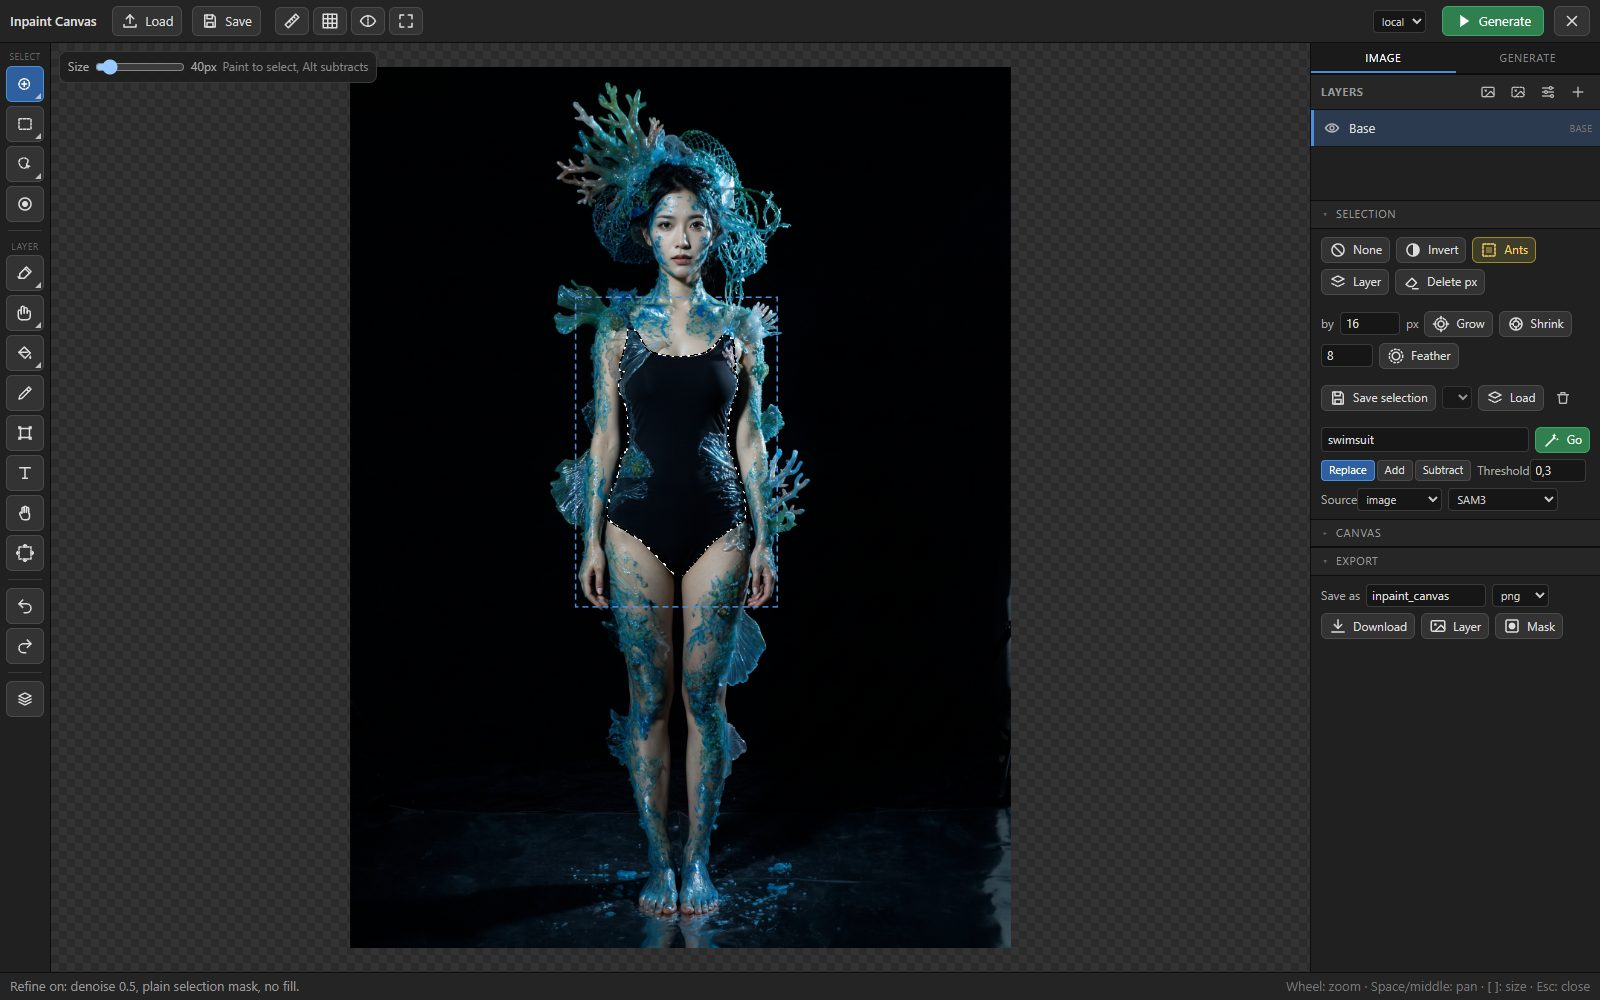
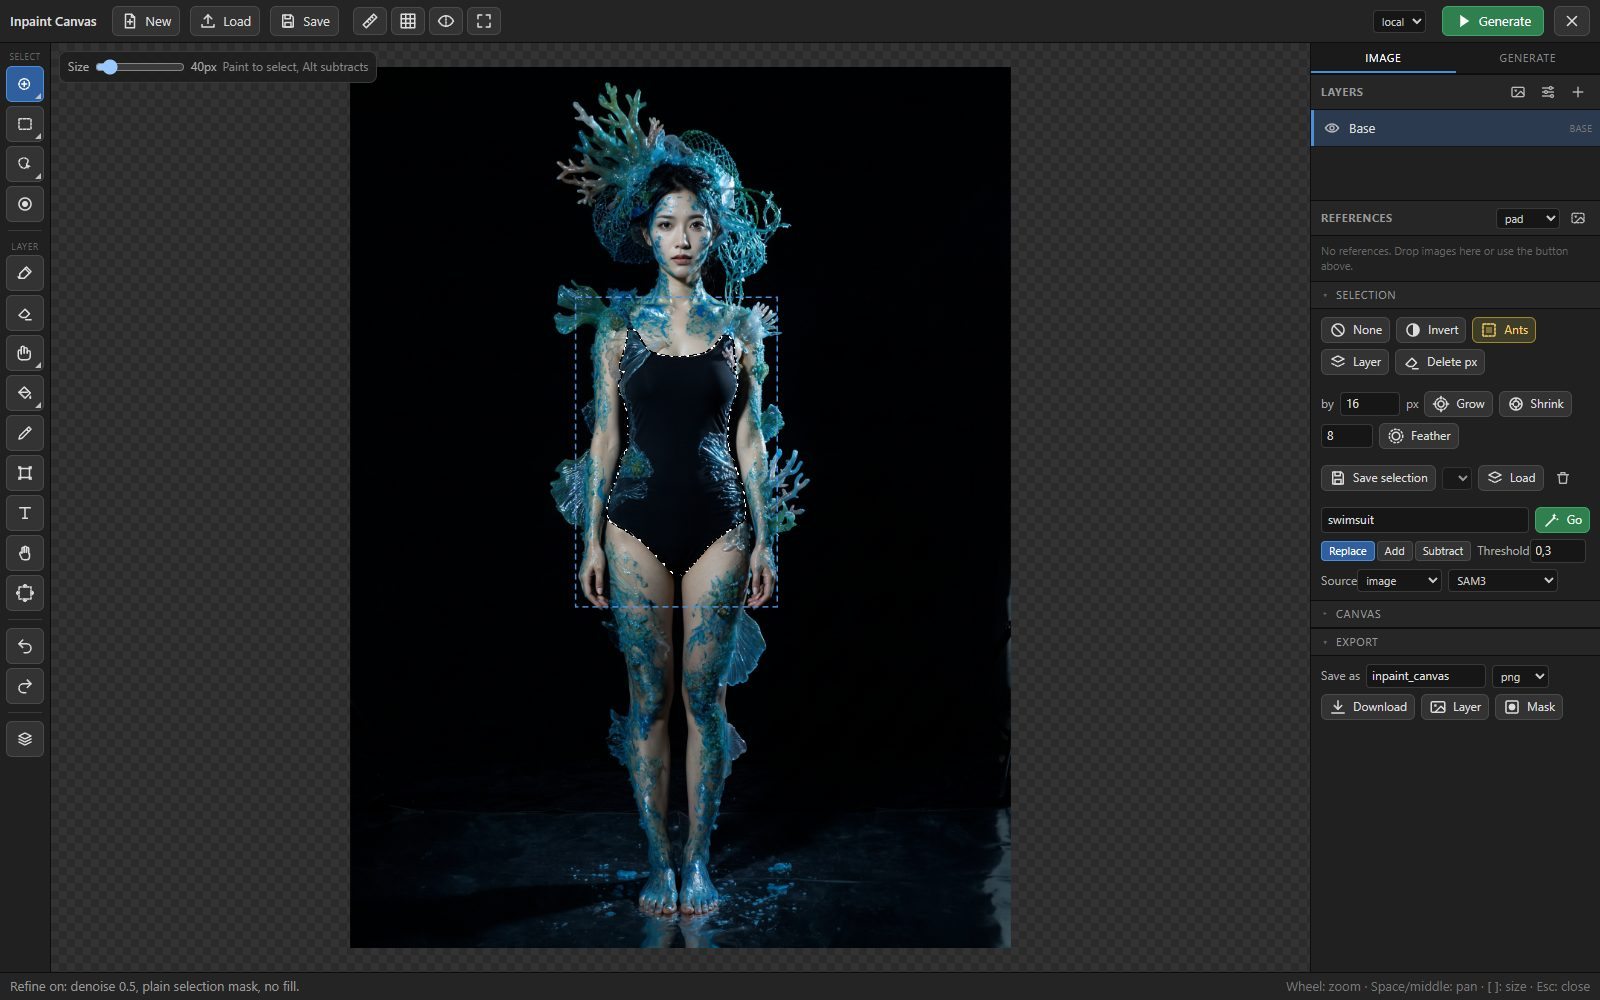
README screenshots regenerated with the current UI; the two example workflows pictured (focus mode, notes stacked); old graph screenshot removed

diff --git a/docs/shots.py b/docs/shots.py
@@ -100,6 +100,38 @@ return { ok, hist: ed.history.length, status: ed.status };
 ]
 
 
+EXAMPLES = {"example-api": "inpaint_canvas_flux2_api.json", "example-klein": "inpaint_canvas_flux2_klein_local.json"}
+
+# the example workflows loaded as graphs, fitted to the window (after the editor scenes: they replace the graph)
+EXAMPLE_SCENE = r"""
+const app = window.comfyAPI.app.app;
+if (window.__ed && window.__ed.isOpen) window.__ed.close();
+await app.loadGraphData(JSON.parse(__EXAMPLE__));
+await window.__wait(2500);
+// a clean canvas: focus mode hides the side panels, toasts go, the guide notes shrink for the picture
+try { const em = app.extensionManager; if (em && !em.focusMode && em.toggleFocusMode) em.toggleFocusMode(); } catch (e) {}
+document.querySelectorAll('.p-toast').forEach((e) => { e.style.display = 'none'; });
+const nodes = app.graph._nodes;
+const isNote = (n) => n.type === 'Note' || n.type === 'MarkdownNote';
+let gx0 = Infinity, gy0 = Infinity;
+for (const n of nodes) { if (isNote(n)) continue; gx0 = Math.min(gx0, n.pos[0]); gy0 = Math.min(gy0, n.pos[1]); }
+// the notes stack in a column left of the graph so the picture stays compact
+let k = 0;
+for (const n of nodes) { if (!isNote(n)) continue; n.size = [340, 150]; if (n.flags) n.flags.collapsed = false; n.pos = [gx0 - 400, gy0 + k * 200]; k++; }
+await window.__wait(600);
+let x0 = Infinity, y0 = Infinity, x1 = -Infinity, y1 = -Infinity;
+for (const n of nodes) { const [x, y] = n.pos, [w, h] = n.size; x0 = Math.min(x0, x); y0 = Math.min(y0, y - 40); x1 = Math.max(x1, x + w); y1 = Math.max(y1, y + h); }
+const cw = app.canvas.canvas.width, ch = app.canvas.canvas.height;
+app.canvas.low_quality_zoom_threshold = 0.25;
+const s = Math.min((cw - 120) / (x1 - x0), (ch - 120) / (y1 - y0), 1.1);
+app.canvas.ds.scale = s; app.canvas.ds.offset = [(cw / s - (x1 - x0)) / 2 - x0, (ch / s - (y1 - y0)) / 2 - y0];
+app.canvas.setDirty(true, true); await window.__wait(1500);
+return { nodes: nodes.length, scale: +s.toFixed(2), focus: !!(app.extensionManager && app.extensionManager.focusMode) };
+"""
+SCENES.append(("example-api", EXAMPLE_SCENE))
+SCENES.append(("example-klein", EXAMPLE_SCENE))
+
+
 async def main():
     pages = json.load(urllib.request.urlopen(f"http://127.0.0.1:{PORT}/json"))
     page = next((p for p in pages if p.get("type") == "page" and "8188" in p.get("url", "")), None)
@@ -148,6 +180,10 @@ async def main():
             for name, code in SCENES:
                 if name not in only:
                     continue
+                if "__EXAMPLE__" in code:
+                    # the example workflows: their JSON is handed to the page as a string literal
+                    ex = os.path.join(os.path.dirname(os.path.dirname(os.path.abspath(__file__))), "examples", EXAMPLES[name])
+                    code = code.replace("__EXAMPLE__", json.dumps(open(ex, encoding="utf-8").read()))
                 res = await js(code)
                 print(name, "->", res)
                 await shot(name)

diff --git a/README.md b/README.md
@@ -80,7 +80,7 @@ reference layers, masks, save and cleanup need nothing beyond the node.
 
 ## Quick start
 
-![The node in a graph with a LoRA loader, a KSampler and the inpaint chain wired back into result](docs/img/graph.jpg)
+![The Flux.2 API example: Inpaint Canvas wired into the Flux.2 Image node and back into result](docs/img/example-api.jpg)
 
 1. Add **Inpaint Canvas**, click **Open editor**, load an image (button,
    Ctrl+V or drag and drop) or start with **New**, an empty white canvas
@@ -117,6 +117,8 @@ ComfyUI, open the editor, load an image and press Generate.
   `result`. Reference layers ride along in `crop_image` and the API node
   reads them as extra reference images. Needs ComfyUI API credits, no local
   model.
+![The Flux.2 Klein example: two Image From Batch nodes feed the Klein subgraph, the result returns into result_local](docs/img/example-klein.jpg)
+
 - [`inpaint_canvas_flux2_klein_local.json`](examples/inpaint_canvas_flux2_klein_local.json):
   a local chain with **Flux.2 Klein 9B** in a subgraph (UNET, Qwen3 8B text
   encoder, Flux.2 VAE, ReferenceLatent, SamplerCustomAdvanced). Two
